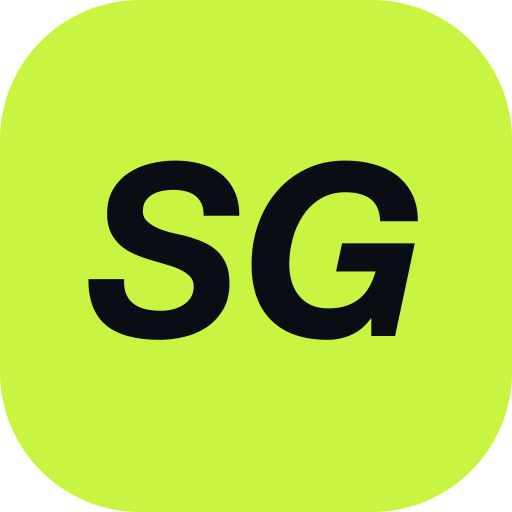
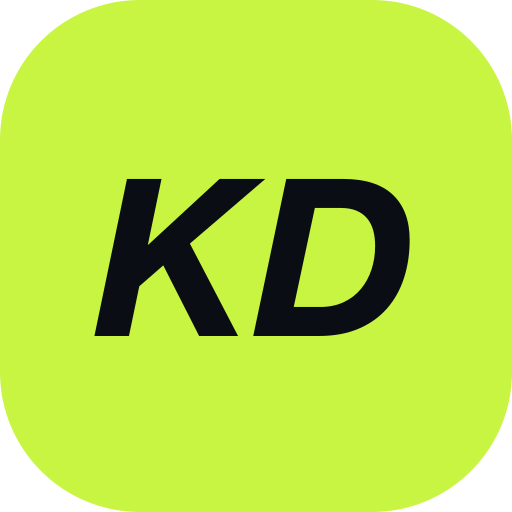
rebrand: Squad Goals -> Kickoff Draft, point at kickoffdraft.com
Renames the product's user-facing name and all public URLs from
henderjm.github.io/world-cup-sweepstake to the newly registered
kickoffdraft.com, and repositions the copy around the head-to-head
fantasy draft league (snake draft, waivers, weekly matchups) rather
than live scores.

- Head metadata, JSON-LD, noscript fallback, site.webmanifest,
  robots.txt and sitemap.xml now reference kickoffdraft.com; manifest
  start_url/scope move from the old subpath to the domain root.
- Added a CNAME file (kickoffdraft.com) and wired it into vite.config.js's
  copy-runtime-assets list so GitHub Pages keeps the custom domain on
  every deploy.
- Regenerated the brand imagery (favicon, app icons, OG image) with the
  KD mark and Kickoff Draft wordmark, same navy/lime visual language;
  OG copy now leads with the draft league.
- Header brand mark/name/sub-label, sign-in prompts, footer credit,
  banter compose note and the tutorials index lede now read Kickoff
  Draft instead of Squad Goals.
- worker/worker.js: ALLOWED_ORIGINS additively gains kickoffdraft.com
  and www.kickoffdraft.com, keeping the henderjm.github.io entry until
  DNS propagation is confirmed; the test-push title is rebranded.
- worker/wrangler.toml: SITE_ORIGIN now points at kickoffdraft.com.
- src/data.js: DATA_API is deliberately left on the workers.dev origin
  with a comment explaining why, until an api.kickoffdraft.com custom
  domain exists.
- README and CLAUDE.md updated: opening copy leads with the draft
[…]

Changed region(s): [[0.1562, 0.3125, 0.8438, 0.6875]]

diff --git a/index.html b/index.html
@@ -3,29 +3,29 @@
   <head>
     <meta charset="UTF-8" />
     <meta name="viewport" content="width=device-width, initial-scale=1.0" />
-    <title>Squad Goals: Premier League &amp; Champions League Live Scores and Fantasy Draft</title>
-    <meta name="description" content="Live Premier League and Champions League scores, tables, fixtures and top scorers, updated match by match, plus a head-to-head fantasy draft league." />
-    <link rel="canonical" href="https://henderjm.github.io/world-cup-sweepstake/" />
+    <title>Kickoff Draft: Head-to-Head Fantasy Premier League, Snake Draft Style</title>
+    <meta name="description" content="A head-to-head fantasy league for the Premier League: snake draft, waivers and weekly matchups, the format NFL fantasy players know, plus live scores, tables and fixtures alongside it." />
+    <link rel="canonical" href="https://kickoffdraft.com/" />
     <meta name="theme-color" content="#0A0E14" />
 
     <!-- Open Graph -->
     <meta property="og:type" content="website" />
-    <meta property="og:site_name" content="Squad Goals" />
-    <meta property="og:title" content="Squad Goals: Premier League &amp; Champions League Live Scores and Fantasy Draft" />
-    <meta property="og:description" content="Live Premier League and Champions League scores, tables, fixtures and top scorers, updated match by match, plus a head-to-head fantasy draft league." />
-    <meta property="og:url" content="https://henderjm.github.io/world-cup-sweepstake/" />
-    <meta property="og:image" content="https://henderjm.github.io/world-cup-sweepstake/assets/og-image.png" />
+    <meta property="og:site_name" content="Kickoff Draft" />
+    <meta property="og:title" content="Kickoff Draft: Head-to-Head Fantasy Premier League, Snake Draft Style" />
+    <meta property="og:description" content="A head-to-head fantasy league for the Premier League: snake draft, waivers and weekly matchups, the format NFL fantasy players know, plus live scores, tables and fixtures alongside it." />
+    <meta property="og:url" content="https://kickoffdraft.com/" />
+    <meta property="og:image" content="https://kickoffdraft.com/assets/og-image.png" />
     <meta property="og:image:width" content="1200" />
     <meta property="og:image:height" content="630" />
-    <meta property="og:image:alt" content="Squad Goals wordmark on a navy background, with a lime accent line." />
+    <meta property="og:image:alt" content="Kickoff Draft wordmark on a navy background, with a lime accent line." />
     <meta property="og:locale" content="en_GB" />
 
     <!-- Twitter card -->
     <meta name="twitter:card" content="summary_large_image" />
-    <meta name="twitter:title" content="Squad Goals: Premier League &amp; Champions League Live Scores and Fantasy Draft" />
-    <meta name="twitter:description" content="Live Premier League and Champions League scores, tables, fixtures and top scorers, updated match by match, plus a head-to-head fantasy draft league." />
-    <meta name="twitter:image" content="https://henderjm.github.io/world-cup-sweepstake/assets/og-image.png" />
-    <meta name="twitter:image:alt" content="Squad Goals wordmark on a navy background, with a lime accent line." />
+    <meta name="twitter:title" content="Kickoff Draft: Head-to-Head Fantasy Premier League, Snake Draft Style" />
+    <meta name="twitter:description" content="A head-to-head fantasy league for the Premier League: snake draft, waivers and weekly matchups, the format NFL fantasy players know, plus live scores, tables and fixtures alongside it." />
+    <meta name="twitter:image" content="https://kickoffdraft.com/assets/og-image.png" />
+    <meta name="twitter:image:alt" content="Kickoff Draft wordmark on a navy background, with a lime accent line." />
 
     <!-- Icons and web app manifest -->
     <link rel="icon" href="assets/favicon.svg" type="image/svg+xml" />
@@ -41,9 +41,9 @@
       {
         "@context": "https://schema.org",
         "@type": "WebSite",
-        "name": "Squad Goals",
-        "url": "https://henderjm.github.io/world-cup-sweepstake/",
-        "description": "Live Premier League and Champions League scores, tables, fixtures and top scorers, updated match by match, plus a head-to-head fantasy draft league.",
+        "name": "Kickoff Draft",
+        "url": "https://kickoffdraft.com/",
+        "description": "A head-to-head fantasy league for the Premier League: snake draft, waivers and weekly matchups, the format NFL fantasy players know, plus live scores, tables and fixtures alongside it.",
         "inLanguage": "en-GB"
       }
     </script>
@@ -67,18 +67,19 @@
       </style>
       <div class="noscript-fallback">
         <div class="noscript-fallback__inner">
-          <h1>Squad Goals</h1>
+          <h1>Kickoff Draft</h1>
           <p>
-            Squad Goals is a live football tracker for the Premier League and the
-            Champions League. This app needs JavaScript enabled to run; here is
-            what it offers:
+            Kickoff Draft is a head-to-head fantasy draft league for the Premier
+            League: snake draft, waivers and weekly matchups, the format NFL
+            fantasy players know. This app needs JavaScript enabled to run; here
+            is what it offers:
           </p>
           <ul>
+            <li>A head-to-head fantasy draft league you can create or join with friends</li>
             <li>Live scores and match minute-by-minute status</li>
             <li>League tables with form and European/relegation zones</li>
             <li>Fixtures and results by matchday</li>
             <li>Top scorer and assist charts</li>
-            <li>A head-to-head fantasy draft league you can create or join with friends</li>
           </ul>
           <p>Please enable JavaScript in your browser to use the app.</p>
         </div>

diff --git a/src/views.js b/src/views.js
@@ -549,8 +549,8 @@ export function renderSignedOut({ available, configured }) {
       : `<div class="you__gis" id="gisButton"></div>`;
   return `
     <div class="you you--signin">
-      <span class="brand__mark you__mark">SG</span>
-      <h2 class="you__title">Sign in to Squad Goals</h2>
+      <span class="brand__mark you__mark">KD</span>
+      <h2 class="you__title">Sign in to Kickoff Draft</h2>
       <p class="note">Follow your clubs, get goal alerts on this device, and run your fantasy squad. One tap with Google.</p>
       ${cta}
       <p class="note--dim">We only use Google to sign you in. No posts, no contacts.</p>
@@ -615,5 +615,5 @@ export function renderSignedIn(model, account, isFollowed) {
 
 export function renderFooter(model) {
   return `
-    <p>Data: ${esc(model.source)}${model.lastUpdated ? ` · updated ${dateLabel(model.lastUpdated)}` : ""} · Squad Goals is a Goon Squad production · Not affiliated with the Premier League or UEFA.</p>`;
+    <p>Data: ${esc(model.source)}${model.lastUpdated ? ` · updated ${dateLabel(model.lastUpdated)}` : ""} · Kickoff Draft is a Goon Squad production · Not affiliated with the Premier League or UEFA.</p>`;
 }

diff --git a/worker/worker.js b/worker/worker.js
@@ -71,7 +71,13 @@ export { FantasyDraftRoom } from "./draftRoom.js";
 const API = "https://v3.football.api-sports.io";
 
 const ALLOWED_ORIGINS = new Set([
+  // The site is moving from GitHub Pages to the kickoffdraft.com custom domain.
+  // Keep the github.io entry until DNS has propagated and the domain move is
+  // confirmed live; drop it only once henderjm.github.io is no longer serving
+  // the site, so nobody's mid-transition browser tab loses the backend.
   "https://henderjm.github.io",
+  "https://kickoffdraft.com",
+  "https://www.kickoffdraft.com",
   "http://localhost:8731",
   "http://127.0.0.1:8731",
 ]);
@@ -2437,7 +2443,7 @@ async function handlePushTest(request, env, cors) {
     const results = await Promise.all(
       (subs.results ?? []).map((sub) =>
         sendPush(env, sub, {
-          title: "Squad Goals test",
+          title: "Kickoff Draft test",
           body: "Push notifications are working on this device.",
           url: env.SITE_ORIGIN ?? "",
           tag: "sg-test",

diff --git a/src/fantasyView.js b/src/fantasyView.js
@@ -72,7 +72,7 @@ function renderFormSparkline(form) {
 export function renderFantasySignedOut() {
   return `
     <div class="you you--signin">
-      <span class="brand__mark you__mark">SG</span>
+      <span class="brand__mark you__mark">KD</span>
       <h2 class="you__title">Sign in for Fantasy</h2>
       <p class="note">Create or join a head-to-head draft league with your mates: sign in to get started.</p>
       <button class="seg" type="button" data-section-nav="you">Go to sign in →</button>
@@ -86,7 +86,7 @@ export function renderFantasySignedOut() {
 export function renderFantasySessionExpired() {
   return `
     <div class="you you--signin">
-      <span class="brand__mark you__mark">SG</span>
+      <span class="brand__mark you__mark">KD</span>
       <h2 class="you__title">Your session expired</h2>
       <p class="note">Sign in again from the You section to keep using Fantasy.</p>
       <button class="seg" type="button" data-section-nav="you">Go to sign in →</button>

diff --git a/src/data.js b/src/data.js
@@ -11,6 +11,9 @@ import { posthog } from "./telemetry.js";
 // `wrangler dev` Worker (http://localhost:8787) so accounts, banter and the fantasy
 // draft room can be exercised end to end without touching production. Vite strips
 // the whole branch from production builds via import.meta.env.DEV.
+// Deliberately still the workers.dev origin, not an api.kickoffdraft.com custom
+// domain: that custom domain does not exist yet. Switch this once it does, not
+// before, or the kickoffdraft.com deploy loses its backend the moment it goes live.
 export const DATA_API = (import.meta.env?.DEV && devApiOverride()) || "https://goon-squad-data.gs-wc.workers.dev";
 
 function devApiOverride() {

diff --git a/src/banter.js b/src/banter.js
@@ -168,7 +168,7 @@ function renderSkeleton() {
         <input class="bn__text" data-banter-text maxlength="140" placeholder="say something…" autocomplete="off" aria-label="Your banter" />
         <button class="btn bn__send" type="submit">Send</button>
       </form>
-      <p class="bn__note">Posting as your Squad Goals account, shared with everyone.</p>`
+      <p class="bn__note">Posting as your Kickoff Draft account, shared with everyone.</p>`
     : `<p class="bn__note bn__note--signin">Reading is open to all; joining in needs an account.
         <button class="seg" type="button" data-section-nav="you" data-md-close>Sign in</button>
       </p>`;

diff --git a/src/App.svelte b/src/App.svelte
@@ -11,10 +11,10 @@
 <div class="shell">
   <header class="topnav">
     <button class="brand" type="button" data-section-nav="scores">
-      <span class="brand__mark">SG</span>
+      <span class="brand__mark">KD</span>
       <span class="brand__stack">
-        <strong class="brand__name">Squad Goals</strong>
-        <span class="brand__sub">Scores · Tables · Fantasy</span>
+        <strong class="brand__name">Kickoff Draft</strong>
+        <span class="brand__sub">Draft · Waivers · Head-to-Head</span>
       </span>
     </button>
     <nav class="topnav__sections" id="sectionNav" aria-label="Sections">

diff --git a/sw.js b/sw.js
@@ -15,10 +15,10 @@ self.addEventListener("push", (event) => {
   try {
     payload = event.data?.json() ?? {};
   } catch {
-    payload = { title: "Squad Goals", body: event.data?.text() ?? "" };
+    payload = { title: "Kickoff Draft", body: event.data?.text() ?? "" };
   }
   event.waitUntil(
-    self.registration.showNotification(payload.title || "Squad Goals", {
+    self.registration.showNotification(payload.title || "Kickoff Draft", {
       body: payload.body || "",
       tag: payload.tag || undefined,
       data: { url: payload.url || "" },

diff --git a/src/app.js b/src/app.js
@@ -346,7 +346,7 @@ function renderAll() {
     : `<div class="ticker__track" style="animation:none;"><span class="ticker__item ticker__item--idle">Live feed not available yet.</span></div>`;
   elements.footer.innerHTML = model.hasData
     ? renderFooter(model)
-    : `<p>Data source: ${model.source ?? "pending"} · Squad Goals is a Goon Squad production.</p>`;
+    : `<p>Data source: ${model.source ?? "pending"} · Kickoff Draft is a Goon Squad production.</p>`;
   renderLayout();
 }
 

diff --git a/src/tutorialsView.js b/src/tutorialsView.js
@@ -43,7 +43,7 @@ export function renderTutorialIndex(tutorials) {
           <h1 class="hero__title">Tutorials</h1>
         </div>
       </div>
-      <p class="note tutorial-index__lede">Short walkthroughs of how Squad Goals features actually work.</p>
+      <p class="note tutorial-index__lede">Short walkthroughs of how Kickoff Draft features actually work.</p>
       <div class="tutorial-grid">${cards || `<p class="note">No tutorials yet.</p>`}</div>
     </div>`;
 }

diff --git a/vite.config.js b/vite.config.js
@@ -18,6 +18,9 @@ export default defineConfig({
           cp("site.webmanifest", "dist/site.webmanifest"),
           cp("robots.txt", "dist/robots.txt"),
           cp("sitemap.xml", "dist/sitemap.xml"),
+          // GitHub Pages custom domain: this file must ship in every deploy or
+          // the custom domain setting unsets itself on the next Pages publish.
+          cp("CNAME", "dist/CNAME"),
         ]);
       },
     },

diff --git a/CLAUDE.md b/CLAUDE.md
@@ -4,9 +4,11 @@ This file provides guidance to Claude Code (claude.ai/code) when working with co
 
 ## What this is
 
-**Squad Goals**: a Svelte/Vite football tracker (FotMob-style live scores, league table, fixtures, player stats) covering the Premier League and the Champions League with a competition switcher, with the other European cups on the roadmap, followed by user sign-up, push notifications and a fantasy draft. Hosted as a static build on GitHub Pages. `src/App.svelte` owns the application shell while the existing plain-JavaScript feature modules remain framework-independent.
+**Kickoff Draft**: a head-to-head fantasy draft league for the Premier League, the format American fantasy players know from the NFL (snake draft, waivers, weekly head-to-head), which the official Fantasy Premier League game does not offer well. Alongside the draft league, a Svelte/Vite football tracker (FotMob-style live scores, league table, fixtures, player stats) covers the Premier League and the Champions League with a competition switcher, with the other European cups on the roadmap. Hosted as a static build on GitHub Pages at the custom domain `kickoffdraft.com`. `src/App.svelte` owns the application shell while the existing plain-JavaScript feature modules remain framework-independent.
 
-The UI implements the "Squad Goals" design (source of record: `docs/design/squad-goals.dc.html`, exported from the Claude Design project): navy `#0A0E14` background, lime `#C8F542` accent, Archivo with italic-uppercase display type, card surfaces `#12181F`. Sections are Scores, Fantasy (the H2H draft league) and Paper Run (Play). Design tokens live at the top of `src/styles.css` and keep the pre-reskin custom-property names so carried-over components restyle automatically.
+Renamed from **Squad Goals** (see git log for when). The rename is user-facing copy only: the Cloudflare Worker service (`goon-squad-data`), the D1 database (`squad-goals`), the GitHub repo, every KV namespace and Durable Object binding, and internal code comments all deliberately keep their original names, since renaming infrastructure identifiers risks breaking a live deployment for no user-visible benefit. `docs/design/squad-goals.dc.html`, the design export this UI still implements, also keeps its old filename; do not churn it.
+
+The UI implements the "Squad Goals" design (source of record: `docs/design/squad-goals.dc.html`, exported from the Claude Design project, kept under its original name per the paragraph above): navy `#0A0E14` background, lime `#C8F542` accent, Archivo with italic-uppercase display type, card surfaces `#12181F`. Sections are Scores, Fantasy (the H2H draft league) and Paper Run (Play). Design tokens live at the top of `src/styles.css` and keep the pre-reskin custom-property names so carried-over components restyle automatically.
 
 The app began as a World Cup 2026 sweepstake hub; the sweepstake (entrants, pot, prizes, Monte Carlo projection) was removed after the tournament. See `README.md` for hosting/deploy steps.
 
@@ -92,13 +94,17 @@ Upstream polling is a state machine, not the browser cadence. The season schedul
 
 `src/telemetry.js` initializes `posthog-js` from `VITE_POSTHOG_KEY`/`VITE_POSTHOG_HOST` (EU ingest, `.env.production`; both are public client tokens, the same trust level as `GOOGLE_CLIENT_ID`, safe to commit). `account.js` calls `posthog.identify(email, { name, email })` on sign-in and on session restore, and `posthog.reset()` on sign-out: email is the identity key because the Worker's `publicUser()` never exposes the internal numeric user id to the client, and email is also the identity the product wants users assigned by. `app.js`'s `metric()`/`log()` helpers translate the old Sentry metrics/logger calls into `posthog.capture()` events (PostHog has no separate count/distribution/gauge metric types, so `metric_kind` rides along as a property instead). All telemetry calls are wrapped so a blocked or absent PostHog never throws.
 
-When changing the deployed origins, keep `ALLOWED_ORIGINS` (worker CORS) and the GitHub Pages URL aligned.
+When changing the deployed origins, keep `ALLOWED_ORIGINS` (worker CORS) and the GitHub Pages URL aligned. `ALLOWED_ORIGINS` currently lists both `https://henderjm.github.io` and the new `https://kickoffdraft.com`/`https://www.kickoffdraft.com` during the domain move; drop the github.io entry once DNS has propagated and the custom domain is confirmed live, not before.
+
+## Custom domain (kickoffdraft.com)
+
+The site moved from `https://henderjm.github.io/world-cup-sweepstake/` to the apex domain `https://kickoffdraft.com`. A `CNAME` file at the repo root (containing exactly `kickoffdraft.com`) is required by GitHub Pages for a custom domain, and it must be in `vite.config.js`'s `copy-runtime-assets` list like every other static file below, or **Pages silently unsets the custom domain on the next deploy**. `worker/wrangler.toml`'s `SITE_ORIGIN` points at the new domain. The Worker's `DATA_API` origin in `src/data.js` deliberately still points at the `workers.dev` URL, not an `api.kickoffdraft.com` custom domain, because that custom domain does not exist yet; switch it only once it does.
 
 ## SEO and social-sharing assets
 
-Head metadata (title, description, canonical, Open Graph, Twitter card, theme-color, the `WebSite` JSON-LD block) lives directly in `index.html`; the `<noscript>` block right after `#app` is genuine crawlable content for clients that do not execute JavaScript, not a pre-mount placeholder, so it must never flash for real users. Share/app-icon images live in `assets/` (`og-image.svg`/`.png` at 1200x630, `favicon.svg`, `favicon-32.png`, `apple-touch-icon.png`, `icon-192.png`, `icon-512.png`); `site.webmanifest`, `robots.txt` and `sitemap.xml` sit at the repo root. All of these are static files, not processed by app code, so **any new one must be added to `vite.config.js`'s `copy-runtime-assets` `closeBundle` list or it will not ship**; verify with a real `npm run build` and inspect `dist/`. Note that Vite's own HTML asset pipeline independently hashes and re-copies whatever `index.html` references by a relative `href` (favicon links, the manifest link), so `dist/` ends up with both the plain copies from the copy list and Vite's hashed duplicates; harmless, but `site.webmanifest`'s icon `src` values are absolute production URLs specifically so the manifest keeps resolving correctly even after Vite relocates its hashed copy into `dist/assets/`.
+Head metadata (title, description, canonical, Open Graph, Twitter card, theme-color, the `WebSite` JSON-LD block) lives directly in `index.html`; the `<noscript>` block right after `#app` is genuine crawlable content for clients that do not execute JavaScript, not a pre-mount placeholder, so it must never flash for real users. Share/app-icon images live in `assets/` (`og-image.svg`/`.png` at 1200x630, `favicon.svg`, `favicon-32.png`, `apple-touch-icon.png`, `icon-192.png`, `icon-512.png`); `site.webmanifest`, `robots.txt`, `sitemap.xml` and `CNAME` sit at the repo root. All of these are static files, not processed by app code, so **any new one must be added to `vite.config.js`'s `copy-runtime-assets` `closeBundle` list or it will not ship**; verify with a real `npm run build` and inspect `dist/`. Note that Vite's own HTML asset pipeline independently hashes and re-copies whatever `index.html` references by a relative `href` (favicon links, the manifest link), so `dist/` ends up with both the plain copies from the copy list and Vite's hashed duplicates; harmless, but `site.webmanifest`'s icon `src` values are absolute production URLs specifically so the manifest keeps resolving correctly even after Vite relocates its hashed copy into `dist/assets/`.
 
-The site is hash-routed (`#live`, `#tables`, etc.) and client-rendered, so there is exactly one crawlable URL; `sitemap.xml` lists only that URL, never hash fragments. `robots.txt` is shipped for correctness but is currently inert: GitHub Pages serves this project at a subpath (`https://henderjm.github.io/world-cup-sweepstake/`), and crawlers only ever read `robots.txt` from the domain root (`https://henderjm.github.io/robots.txt`), which 404s. It starts working automatically if a custom domain, or a `henderjm.github.io` user/organization site, is ever put in front of this app.
+The site is hash-routed (`#live`, `#tables`, etc.) and client-rendered, so there is exactly one crawlable URL; `sitemap.xml` lists only that URL, never hash fragments. `robots.txt` now takes effect: it was inert while GitHub Pages served this project at a subpath (`https://henderjm.github.io/world-cup-sweepstake/`, where crawlers instead read the nonexistent `https://henderjm.github.io/robots.txt`), but `kickoffdraft.com` is a domain root, so `robots.txt` and its `Sitemap:` line are now read correctly.
 
 ## Roadmap (agreed phases)
 
